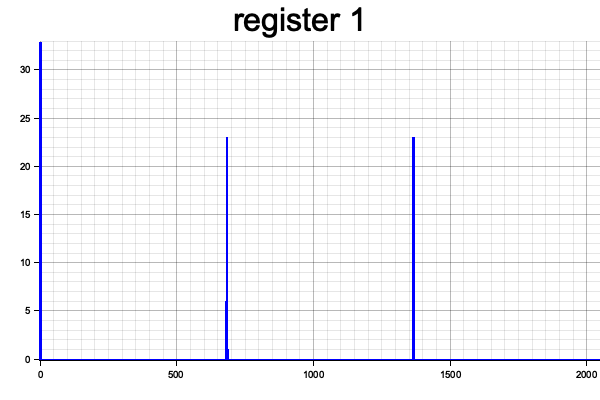
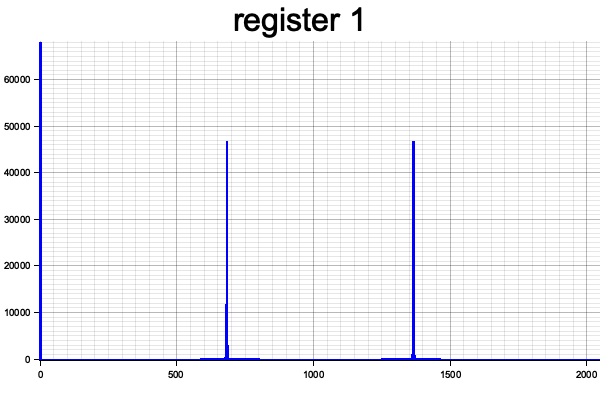
Use rust fft instead of self-made fourier

Changed region(s): [[0.0, 0.09, 0.99, 0.9]]

diff --git a/src/quantum_register.rs b/src/quantum_register.rs
@@ -146,15 +146,15 @@ pub fn measure_quantum_register2(register: &mut QuantumRegister) -> usize {
 
 // extract vector representation of a register 1, under the assumption
 // register 2 has been measured
-pub fn extract_quantum_register1(register: &mut QuantumRegister) -> Array2::<Complex<f64>> {
-    let mut partial_register = Array2::<Complex<f64>>::zeros((2_usize.pow((register.n_bits_reg1) as u32), 1));
+pub fn extract_quantum_register1(register: &mut QuantumRegister) -> Vec<Complex<f64>> {
+    let mut partial_register = vec![Complex{ re: 0.0f64, im: 0.0f64 }; 2_u32.pow(register.n_bits_reg1 as u32) as usize];
 
     // register 2 has already been measured, measure again to know what reg 2 is to
     // target correct location of reg 1 values
     let reg2_value = measure_quantum_register2(register);
 
     for i in 0..2_u32.pow(register.n_bits_reg1 as u32) {
-        partial_register[[i as usize, 0]] =  register.register[[(i << register.n_bits_reg2 | (reg2_value as u32)) as usize, 0]];
+        partial_register[i as usize] =  register.register[[(i << register.n_bits_reg2 | (reg2_value as u32)) as usize, 0]];
     }
 
     // return result (reg1)
@@ -163,12 +163,12 @@ pub fn extract_quantum_register1(register: &mut QuantumRegister) -> Array2::<Com
 
 // insert vector representation of register 1 into full register, under the assumption
 // register 2 has been measured
-pub fn insert_quantum_register1(partial_register: &Array2::<Complex<f64>>, register: &mut QuantumRegister) {
+pub fn insert_quantum_register1(partial_register: &Vec<Complex<f64>>, register: &mut QuantumRegister) {
     // register 2 has already been measured, measure again to know what reg 2 is to
     // target correct location of reg 1 values
     let reg2_value = measure_quantum_register2(register);
 
     for i in 0..2_u32.pow(register.n_bits_reg1 as u32) {
-        register.register[[(i << register.n_bits_reg2 | (reg2_value as u32)) as usize, 0]] = partial_register[[i as usize, 0]];
+        register.register[[(i << register.n_bits_reg2 | (reg2_value as u32)) as usize, 0]] = partial_register[i as usize];
     }
 }

diff --git a/src/main.rs b/src/main.rs
@@ -13,6 +13,8 @@ mod baillie_psw_prime;
 mod prime_power_check;
 mod plots;
 
+
+
 use sieve_of_eratosthenes::sieve_of_eratosthenes;
 use is_even::is_even;
 use pseudo_prime::pseudo_prime;
@@ -29,13 +31,13 @@ use crate::lucas::u_k;
 use crate::plots::plot_probabilities_register1;
 use crate::prime_power_check::prime_power_check;
 use crate::quantum_register::{extract_quantum_register1, insert_quantum_register1};
-
+use rustfft::{FftPlanner, num_complex::Complex};
 
 fn main() {
     println!("Hello, Shor!");
 
     // Choose n to factorize
-    for n in [15_u64, 35_u64, 69_u64] {
+    for n in [221_u64] {
         println!("n = {}", n);
 
         // Step 1
@@ -83,9 +85,12 @@ fn main() {
                     print_quantum_register(&quantum_register);
 
                     println!("Perform qft on register 1 (step 8)");
-                    let qft = create_qft(2_u32.pow(quantum_register.n_bits_reg1 as u32));
+
                     let mut reg1 = extract_quantum_register1(&mut quantum_register);
-                    reg1 = qft.dot(&reg1);
+
+                    let mut planner = FftPlanner::new();
+                    let fft = planner.plan_fft_forward(reg1.len());
+                    fft.process(&mut reg1);
 
                     insert_quantum_register1(&reg1, &mut quantum_register);
 

diff --git a/src/plots.rs b/src/plots.rs
@@ -3,13 +3,13 @@ use num::Complex;
 
 use plotters::prelude::*;
 
-pub fn plot_probabilities_register1(partial_register: &Array2::<Complex<f64>>, description: String) {
+pub fn plot_probabilities_register1(partial_register: &Vec<Complex<f64>>, description: String) {
     let mut probabilities = Vec::new();
     let mut max_pct = 0;
 
     // calculate all probabilities
     for i in 0..partial_register.len() {
-        let p = partial_register[[i as usize, 0]].norm() * partial_register[[i as usize, 0]].norm();
+        let p = partial_register[i as usize].norm() * partial_register[i as usize].norm();
         let pct = (p * 100.0).round() as i32;
         probabilities.push(pct);
         if pct > max_pct {
